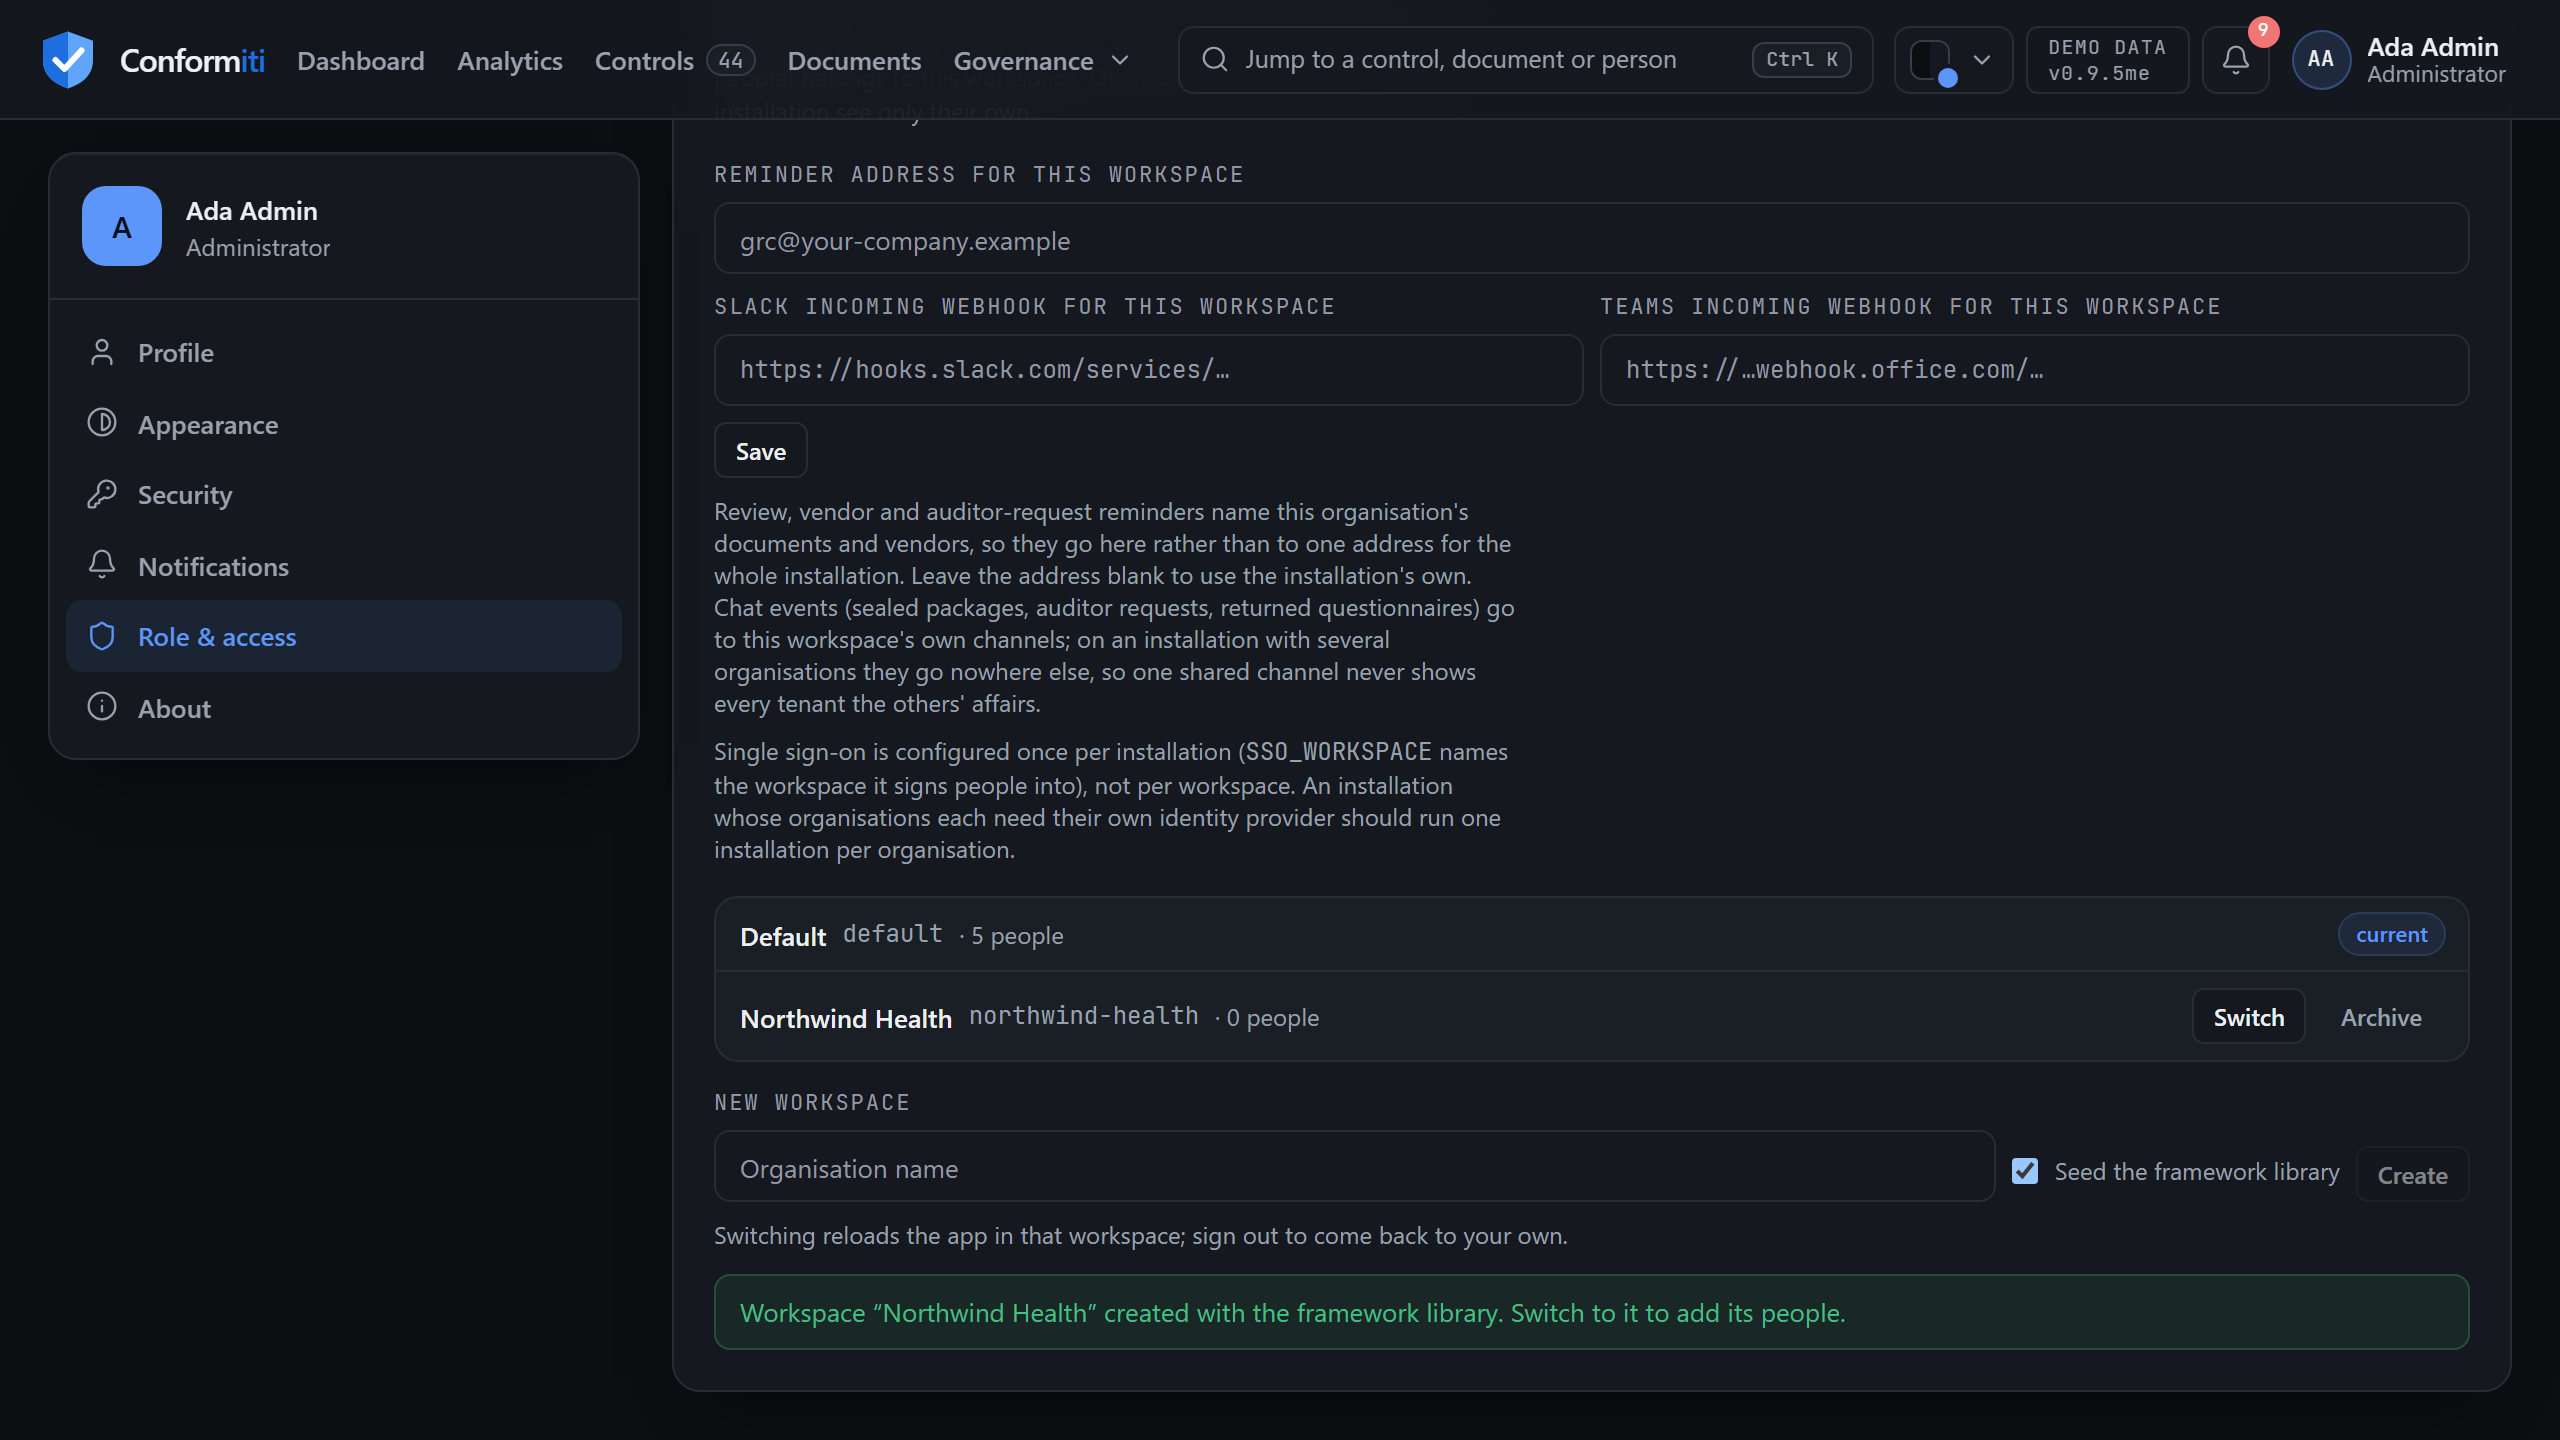
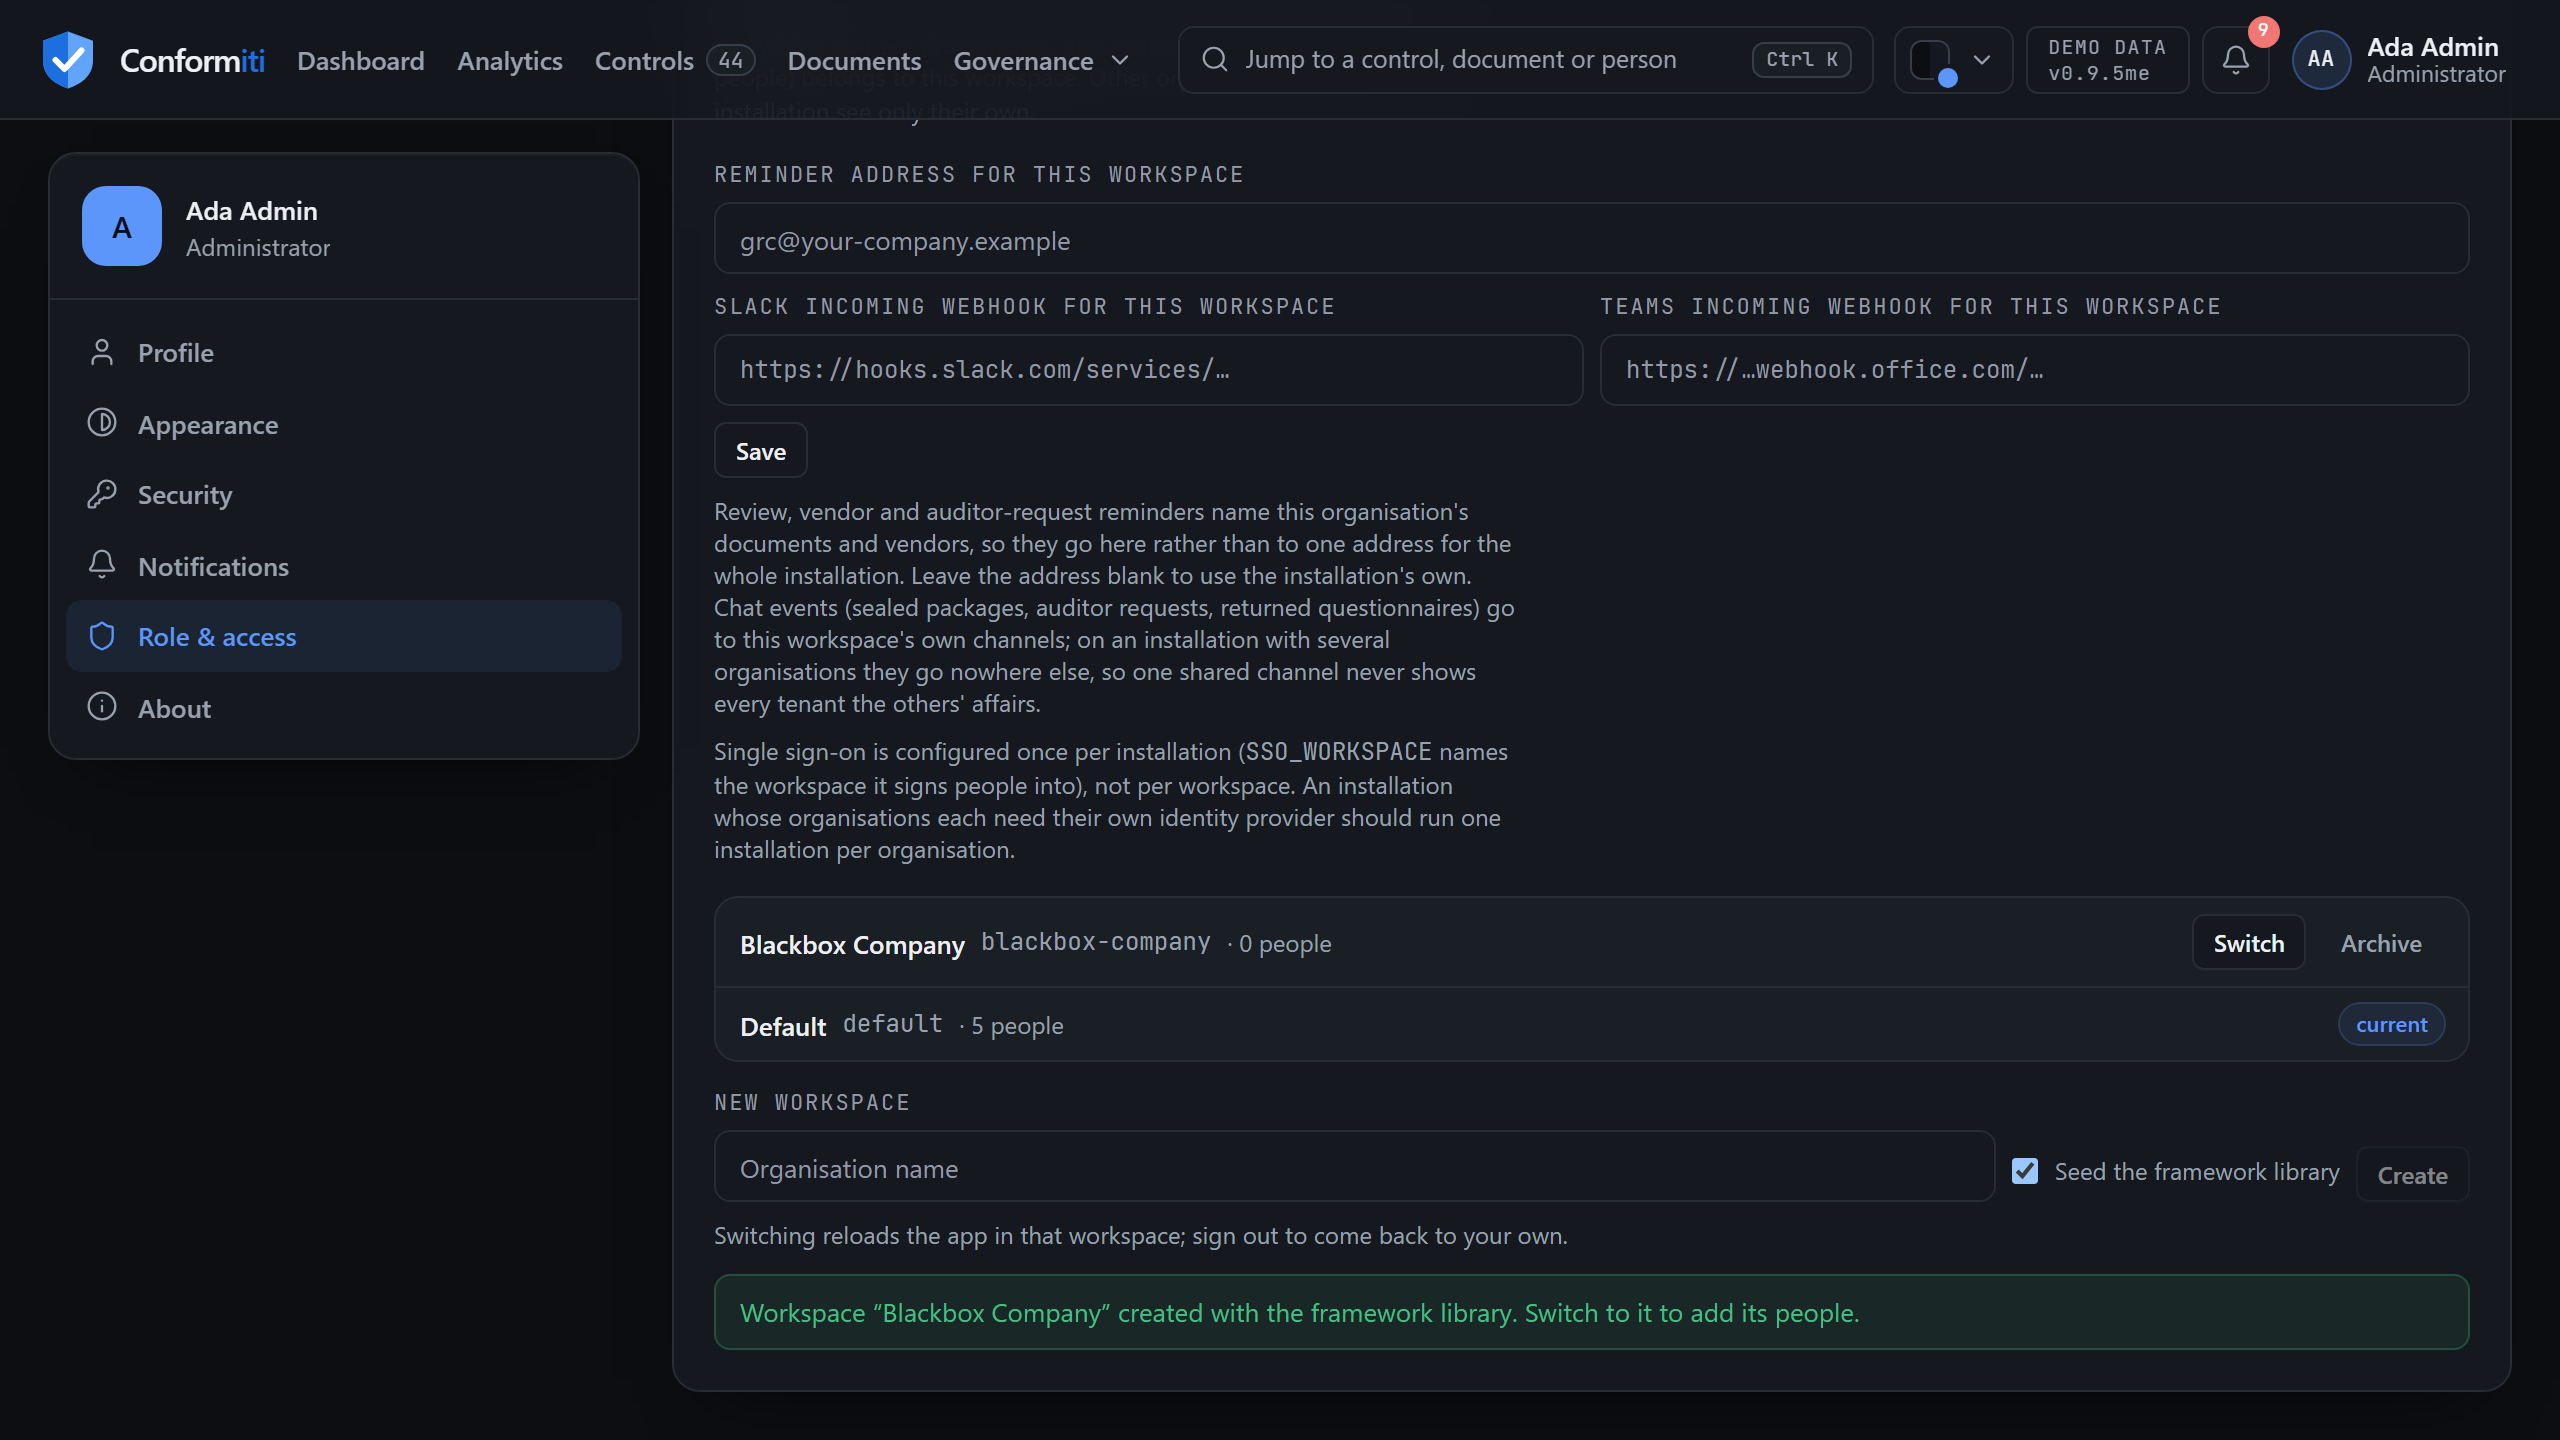
Name the screenshot's second workspace Blackbox Company

diff --git a/e2e/tests/screenshots.spec.js b/e2e/tests/screenshots.spec.js
@@ -183,12 +183,12 @@ test("workspaces", async ({ page }) => {
 
   // A fresh install has only Default, and a switcher with nothing to switch
   // to says nothing. Make the second organisation through the real form.
-  if (!(await block.getByText("northwind-health").count())) {
-    await page.locator("#new-workspace").fill("Northwind Health");
+  if (!(await block.getByText("blackbox-company").count())) {
+    await page.locator("#new-workspace").fill("Blackbox Company");
     await page.getByRole("button", { name: "Create", exact: true }).click();
     // The create seeds the framework library into the new workspace, which
     // takes appreciably longer than an ordinary request.
-    await expect(block.getByText("northwind-health")).toBeVisible({ timeout: 90_000 });
+    await expect(block.getByText("blackbox-company")).toBeVisible({ timeout: 90_000 });
   }
   await settle(page, 800);
   // To the foot of the page rather than just far enough to reveal the block:
